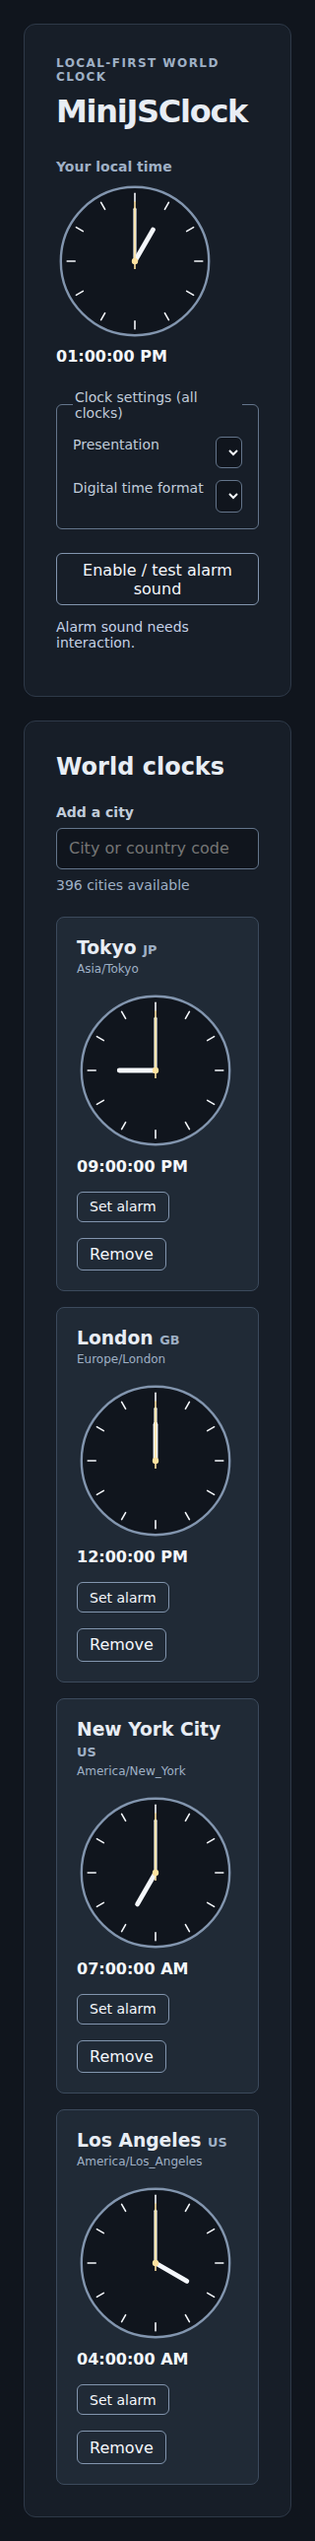
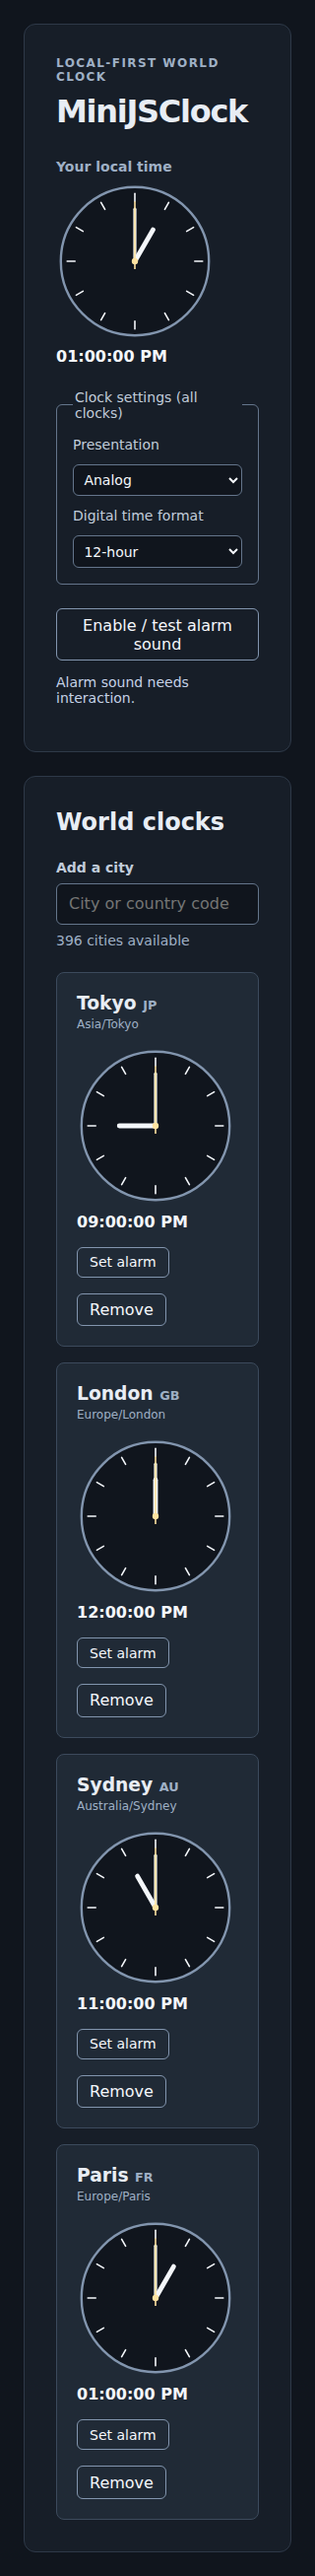
Fix narrow clock settings layout for TASK-0009

diff --git a/e2e/clock-settings.spec.ts b/e2e/clock-settings.spec.ts
@@ -136,3 +136,58 @@ for (const version of ['2', null]) {
     await expect(page.getByRole('status')).toHaveCount(0)
   })
 }
+
+test('keeps global settings readable and operable at 320px', async ({ page }, testInfo) => {
+  await page.setViewportSize({ width: 320, height: 900 })
+  await page.clock.install({ time: new Date('2026-01-15T12:00:00Z') })
+  await page.goto('./')
+  await page.evaluate((storageKey) => {
+    localStorage.setItem(
+      storageKey,
+      JSON.stringify({
+        version: 3,
+        selectedCityIds: [1850147, 2643743, 2147714, 2988507],
+        presentationMode: 'analog',
+        timeFormat: '12h',
+        alarms: [],
+      }),
+    )
+  }, key)
+  await page.reload()
+  await expect(page.locator('[data-city-id]')).toHaveCount(4)
+
+  const fieldset = page.locator('.clock-settings')
+  const fieldsetBox = await fieldset.boundingBox()
+  expect(fieldsetBox).not.toBeNull()
+  expect(fieldsetBox!.x).toBeGreaterThanOrEqual(0)
+  expect(fieldsetBox!.x + fieldsetBox!.width).toBeLessThanOrEqual(320)
+
+  const presentation = page.getByLabel('Presentation', { exact: true })
+  const format = page.getByLabel('Digital time format', { exact: true })
+  for (const [control, selectedText] of [
+    [presentation, 'Analog'],
+    [format, '12-hour'],
+  ] as const) {
+    const box = await control.boundingBox()
+    expect(box).not.toBeNull()
+    expect(box!.x).toBeGreaterThanOrEqual(0)
+    expect(box!.x + box!.width).toBeLessThanOrEqual(320)
+    expect(box!.width).toBeGreaterThanOrEqual(140)
+    await expect(control.locator('option:checked')).toHaveText(selectedText)
+  }
+  await expect(page.getByText('Presentation', { exact: true })).toBeVisible()
+  await expect(page.getByText('Digital time format', { exact: true })).toBeVisible()
+  await page.screenshot({
+    path: testInfo.outputPath('06-narrow-several-analog-12h.png'),
+    fullPage: true,
+  })
+
+  await presentation.selectOption('digital')
+  await expect(page.locator('.clock-face')).toHaveCount(0)
+  await format.selectOption('24h')
+  await expect(presentation.locator('option:checked')).toHaveText('Digital')
+  await expect(format.locator('option:checked')).toHaveText('24-hour')
+  await format.selectOption('12h')
+  await presentation.selectOption('analog')
+  await expect(page.locator('.clock-face')).toHaveCount(5)
+})

diff --git a/src/styles.css b/src/styles.css
@@ -271,6 +271,16 @@ h1 {
   outline-offset: 2px;
 }
 
+@media (max-width: 30rem) {
+  .clock-settings {
+    grid-template-columns: 1fr;
+  }
+
+  .clock-settings select {
+    width: 100%;
+  }
+}
+
 .analog-clock {
   display: grid;
   justify-items: start;

diff --git a/tasks/active/TASK-0009.md b/tasks/active/TASK-0009.md
@@ -78,12 +78,12 @@ Only bundled Playwright Chromium was available. It is not a substitute for the r
 
 ### Visual evidence and defects
 
-Eight hosted [review screenshots](../../docs/quality/acceptance/task-0009/README.md) cover local-only, one/four/twelve world clocks, Digital/Analog, 24h/12h, 320 px narrow layout, alarm editor, and two due notifications. Each capture had no horizontal overflow. The local image viewer was blocked by the known WSL sandbox mount issue, so visual quality itself was not approved by this executor; product-owner final visual PASS is open.
+Eight [review screenshots](../../docs/quality/acceptance/task-0009/README.md) cover local-only, one/four/twelve world clocks, Digital/Analog, 24h/12h, 320 px narrow layout, alarm editor, and two due notifications. The original hosted narrow capture exposed a bounded NFR-001 usability defect: the two global settings selects collapsed to near arrow-only width despite no horizontal overflow. Severity: release-blocking visual/usability defect at the approved narrow acceptance width. The remediation stacks labels and full-width selects at up to 30rem in `src/styles.css`; `e2e/clock-settings.spec.ts` now asserts 320 px control bounds, usable width, selected option text, and setting changes. Refreshed `06-narrow-several-analog-12h.png` was captured from the corrected local production build and visually inspected: “Analog” and “12-hour” are readable, and the fieldset fits the viewport. Other hosted screenshots remain unchanged; product-owner final visual PASS is open. No corrected Pages deployment has occurred.
 
-No release-blocking product defect was found in completed automated smoke. No product code, workflow, IAM, Config schema, dependency, or policy changed.
+No Vue behavior, setting/alarm semantics, Config V3, dependency, workflow, IAM, Pages configuration, or policy changed.
 
 ### Verification, retrospective, and next handoff
 
-`make harness-check` PASS and `git diff --check` PASS on planning task/state creation. The deployed workflow's canonical `make ci` step PASS is the authoritative source build gate. No TASK-0009 product-code edit occurred, so the pre-edit local command suite was not triggered. Formal independent-cloud-standard review remains open. Harness retrospective: **no harness learning**; the WSL sandbox failure is already captured by existing `LEARN-20260926-110426`, and the transient ad-hoc exact-second assertion is covered by the existing timing candidate `LEARN-20260925-155537`. Neither was promoted.
[1 lines of base64/hex data omitted]
 
-Next handoff: human with stable Chrome, Edge, Firefox and actual audio hardware should execute the hosted browser/physical/background matrix and inspect the visual screenshots; record outcomes here before fresh formal independent review and separate human production-release verdict. Keep TASK-0009 in-progress while these gates remain open.
+Next handoff: fresh top-level independent-cloud-standard review of the bounded correction and evidence. Human supported-browser, physical-audio/background, final visual, and separate production-release gates remain open; keep TASK-0009 in-progress.

diff --git a/docs/quality/acceptance/task-0009/README.md b/docs/quality/acceptance/task-0009/README.md
@@ -1,6 +1,6 @@
 # TASK-0009 hosted visual review evidence
 
-Source: `https://gk79.github.io/MiniJSClock/`, deployed from `a9a2a5fc7abae7c69c8cbef66952e9af5ba6f66b` by Pages run [#1](https://github.com/gk79/MiniJSClock/actions/runs/36405144795). Captured in headless Playwright Chromium 153.0.8010.12 on Linux/WSL, 2026-09-28. Browser time was frozen at `2026-01-15T12:00:00.000Z` for stable visual states. Config V3 was seeded locally in each browser context; due notifications were generated by controlled clock progression. Screenshots show the real hosted artifact but do not establish physical audio, actual background behavior, stable Chrome/Edge/Firefox compatibility, or product-owner approval.
+Source: `https://gk79.github.io/MiniJSClock/`, deployed from `a9a2a5fc7abae7c69c8cbef66952e9af5ba6f66b` by Pages run [#1](https://github.com/gk79/MiniJSClock/actions/runs/36405144795). Captured in headless Playwright Chromium 153.0.8010.12 on Linux/WSL, 2026-09-28. Browser time was frozen at `2026-01-15T12:00:00.000Z` for stable visual states. Config V3 was seeded locally in each browser context; due notifications were generated by controlled clock progression. Screenshots `01`–`05`, `07`, and `08` show the real hosted artifact; `06` is the corrected local production build captured with the same browser fixture. The images do not establish physical audio, actual background behavior, stable Chrome/Edge/Firefox compatibility, or product-owner approval.
 
 | File | State | Viewport |
 |---|---|---|
@@ -9,8 +9,10 @@ Source: `https://gk79.github.io/MiniJSClock/`, deployed from `a9a2a5fc7abae7c69c
 | [03-several-world-digital-24h.png](03-several-world-digital-24h.png) | Four world clocks, Digital, 24h | 1440×900 |
 | [04-twelve-world-digital-24h.png](04-twelve-world-digital-24h.png) | Twelve world clocks, Digital, 24h | 1440×900 |
 | [05-twelve-world-analog-12h.png](05-twelve-world-analog-12h.png) | Twelve world clocks, Analog, 12h setting | 1440×900 |
-| [06-narrow-several-analog-12h.png](06-narrow-several-analog-12h.png) | Four world clocks, Analog, 12h setting | 320×900 |
+| [06-narrow-several-analog-12h.png](06-narrow-several-analog-12h.png) | Four world clocks, Analog, 12h setting; refreshed from corrected local built artifact | 320×900 |
 | [07-alarm-editor.png](07-alarm-editor.png) | Tokyo alarm editor open | 1440×900 |
 | [08-due-notifications.png](08-due-notifications.png) | Two simultaneous due notifications | 1440×900 |
 
-For every capture, `document.documentElement.scrollWidth` equaled the viewport width. The product owner must inspect hierarchy, typography, card coherence, spacing, clipping, control consistency, alarm status, and notifications, then explicitly provide final visual PASS or findings. The image-viewer tool in this session could not open local PNGs because the WSL sandbox mount failed; no human-like visual inspection or final visual verdict is claimed.
+The original hosted 320×900 capture exposed an NFR-001 defect: both global settings selects collapsed to near arrow-only width even though the page had no horizontal overflow. The settings fieldset now stacks labels and full-width selects at viewports up to 30rem. The refreshed `06` image was captured from the corrected local production build in Playwright Chromium with four seeded world clocks and frozen time. Its selected values, “Analog” and “12-hour,” are visibly readable. The focused E2E test checks control bounds, width, selected option text, and setting changes at 320px. The remaining images still represent the hosted artifact and were not materially affected by this narrow-only CSS rule. The corrected build has not been deployed to Pages.
+
+The product owner must inspect hierarchy, typography, card coherence, spacing, clipping, control consistency, alarm status, and notifications, then explicitly provide final visual PASS or findings. That verdict remains pending. The original hosted capture is superseded only for the narrow settings state; hosted revalidation of the corrected artifact remains a later release gate.
